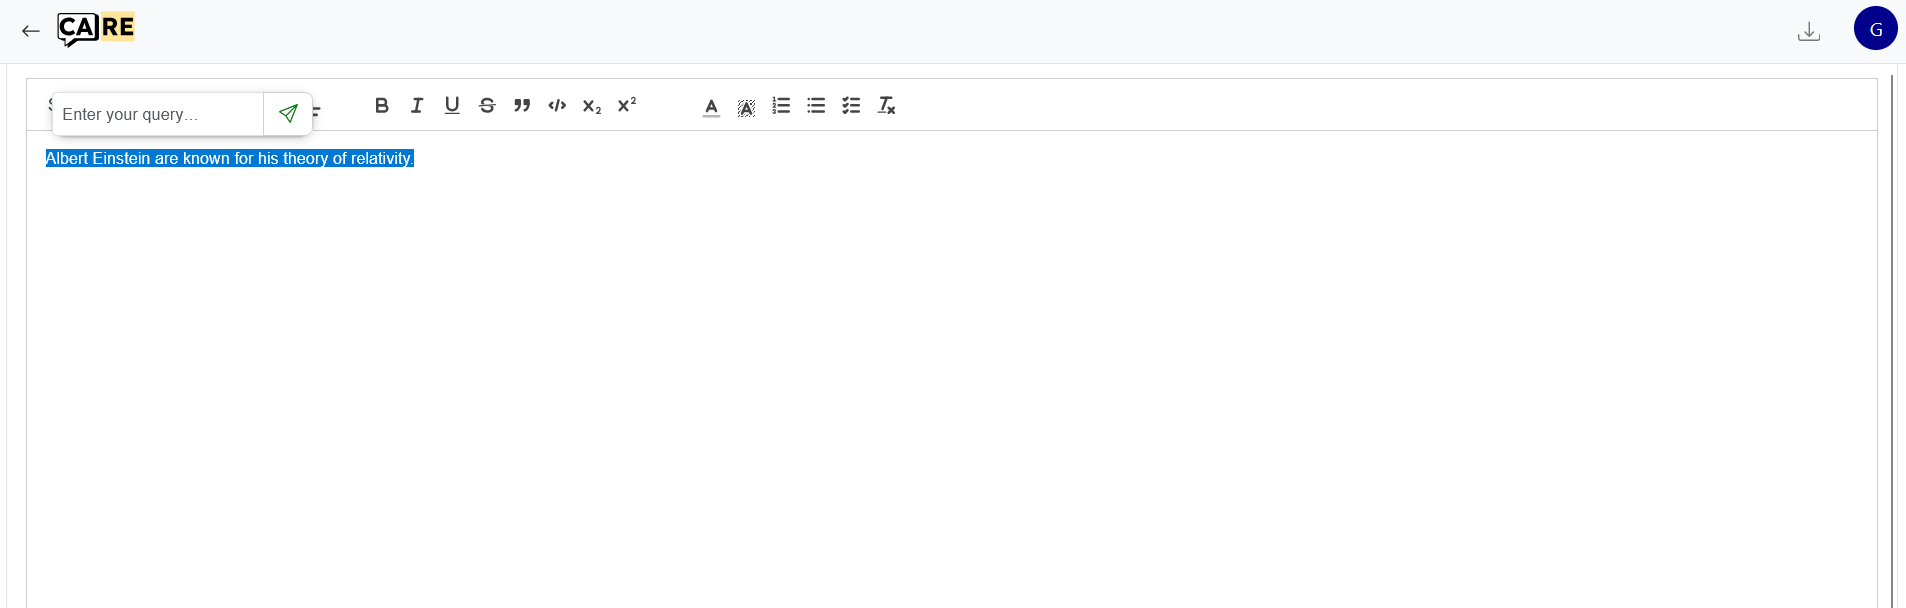
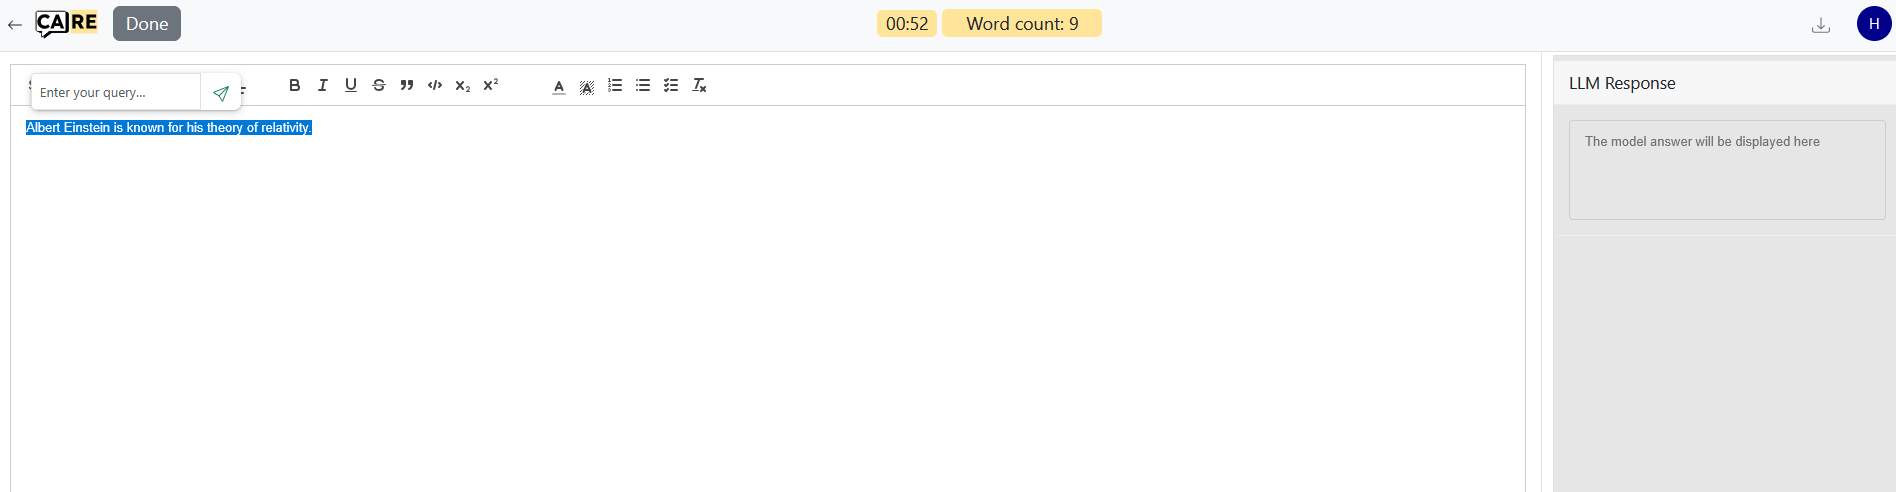
adapt to the new interface

diff --git a/index.html b/index.html
@@ -1024,7 +1024,7 @@
                 style="width: 1000px; height: auto; margin-left: 0.00px; margin-top: 0.00px; transform: rotate(0.00rad) translateZ(0px); -webkit-transform: rotate(0.00rad) translateZ(0px);"
                 title=""></span></p>
     <p class="c2"><span class="c1">You may experiment with the system for max. 5 minutes. When the time is over, you
-            will get a pop-up notification that you should start working on other tasks.</span></p>
+            will get a pop-up notification that you should start working on other tasks. Click on the Done button in the top-left corner and return to the document overview.</span></p>
     <p class="c2"><span class="c16 c6 c8">Part 2: LLM-powered writing</span></p>
     <p class="c2"><span class="c5">Task 1: Argumentative writing</span></p>
     <p class="c2"><span>In this part, you have 10 minutes to write an argumentative essay. You </span><span
@@ -1039,7 +1039,7 @@
             structure and conclusion. Try to find strong arguments to defend your position on the topic, as well as to
             counter it with opposite arguments. Approximate expected length is 300-400 words, but it may vary.</span>
     </p>
-    <p class="c2"><span class="c1">After 10 minutes are over, you get a notification that you should wrap-up your work.</span></p>
+    <p class="c2"><span class="c1">After 10 minutes are over, you get a notification that you should wrap-up your work. Click on the Done button in the top-left corner and return to the document overview.</span></p>
     <p class="c2"><span class="c10 c6">Now you may take a 5 minute break before moving on to the next task!</span></p>
 
     <p class="c2"><span class="c5">Task 2: Creative writing</span></p>
@@ -1062,7 +1062,7 @@
                 economical, or cultural impact that such changes could have on our society.</span></li>
     </ul>
     <p class="c2"><span class="c1">Approximate expected length is 300-400 words, but it may vary. After 10 minutes are
-            over, you get a notification that you should wrap-up your work and move on to the next part.</span></p>
+            over, you get a notification that you should wrap-up your work and move on to the next part. Click on the Done button in the top-left corner and return to the document overview.</span></p>
     <p class="c2"><span class="c10 c6">Now you may take a 5 minute break before moving on to the next task!</span></p>
     <p class="c2"><span class="c5">Task 3: Explanatory writing</span></p>
     <p class="c2"><span>In this part, you have 10 minutes to write an explanatory text. You </span><span
@@ -1089,7 +1089,8 @@
             period/technology etc, so that people without deep knowledge can get a good understanding from your
             text.</span></p>
     <p class="c2"><span class="c1">Approximate expected length is 250-400 words, but it may vary. After 10 minutes are
-            over, you get a notification that you should wrap-up your work and move on to the survey.</span></p>
+            over, you get a notification that you should wrap-up your work and move on to the survey. 
+            Click on the Done button in the top-left corner and return to the document overview. You may close the program now.</span></p>
     <p class="c2"><span class="c6 c8">Part 3: User Experience Survey</span></p>
     <p class="c2"><span>After you finished all interactions, please fill out</span><span
             class="c6 c8">&nbsp;</span><span class="c4"><a class="c3"

diff --git a/create_content.py b/create_content.py
@@ -1078,7 +1078,7 @@ index_html = r"""
                 style="width: 1000px; height: auto; margin-left: 0.00px; margin-top: 0.00px; transform: rotate(0.00rad) translateZ(0px); -webkit-transform: rotate(0.00rad) translateZ(0px);"
                 title=""></span></p>
     <p class="c2"><span class="c1">You may experiment with the system for max. 5 minutes. When the time is over, you
-            will get a pop-up notification that you should start working on other tasks.</span></p>
+            will get a pop-up notification that you should start working on other tasks. Click on the Done button in the top-left corner and return to the document overview.</span></p>
     <p class="c2"><span class="c16 c6 c8">Part 2: LLM-powered writing</span></p>
     <p class="c2"><span class="c5">Task 1: Argumentative writing</span></p>
     <p class="c2"><span>In this part, you have 10 minutes to write an argumentative essay. You </span><span
@@ -1093,7 +1093,7 @@ index_html = r"""
             structure and conclusion. Try to find strong arguments to defend your position on the topic, as well as to
             counter it with opposite arguments. Approximate expected length is 300-400 words, but it may vary.</span>
     </p>
-    <p class="c2"><span class="c1">After 10 minutes are over, you get a notification that you should wrap-up your work.</span></p>
+    <p class="c2"><span class="c1">After 10 minutes are over, you get a notification that you should wrap-up your work. Click on the Done button in the top-left corner and return to the document overview.</span></p>
     <p class="c2"><span class="c10 c6">Now you may take a 5 minute break before moving on to the next task!</span></p>
 
     <p class="c2"><span class="c5">Task 2: Creative writing</span></p>
@@ -1116,7 +1116,7 @@ index_html = r"""
                 economical, or cultural impact that such changes could have on our society.</span></li>
     </ul>
     <p class="c2"><span class="c1">Approximate expected length is 300-400 words, but it may vary. After 10 minutes are
-            over, you get a notification that you should wrap-up your work and move on to the next part.</span></p>
+            over, you get a notification that you should wrap-up your work and move on to the next part. Click on the Done button in the top-left corner and return to the document overview.</span></p>
     <p class="c2"><span class="c10 c6">Now you may take a 5 minute break before moving on to the next task!</span></p>
     <p class="c2"><span class="c5">Task 3: Explanatory writing</span></p>
     <p class="c2"><span>In this part, you have 10 minutes to write an explanatory text. You </span><span
@@ -1143,7 +1143,8 @@ index_html = r"""
             period/technology etc, so that people without deep knowledge can get a good understanding from your
             text.</span></p>
     <p class="c2"><span class="c1">Approximate expected length is 250-400 words, but it may vary. After 10 minutes are
-            over, you get a notification that you should wrap-up your work and move on to the survey.</span></p>
+            over, you get a notification that you should wrap-up your work and move on to the survey. 
+            Click on the Done button in the top-left corner and return to the document overview. You may close the program now.</span></p>
     <p class="c2"><span class="c6 c8">Part 3: User Experience Survey</span></p>
     <p class="c2"><span>After you finished all interactions, please fill out</span><span
             class="c6 c8">&nbsp;</span><span class="c4"><a class="c3"
